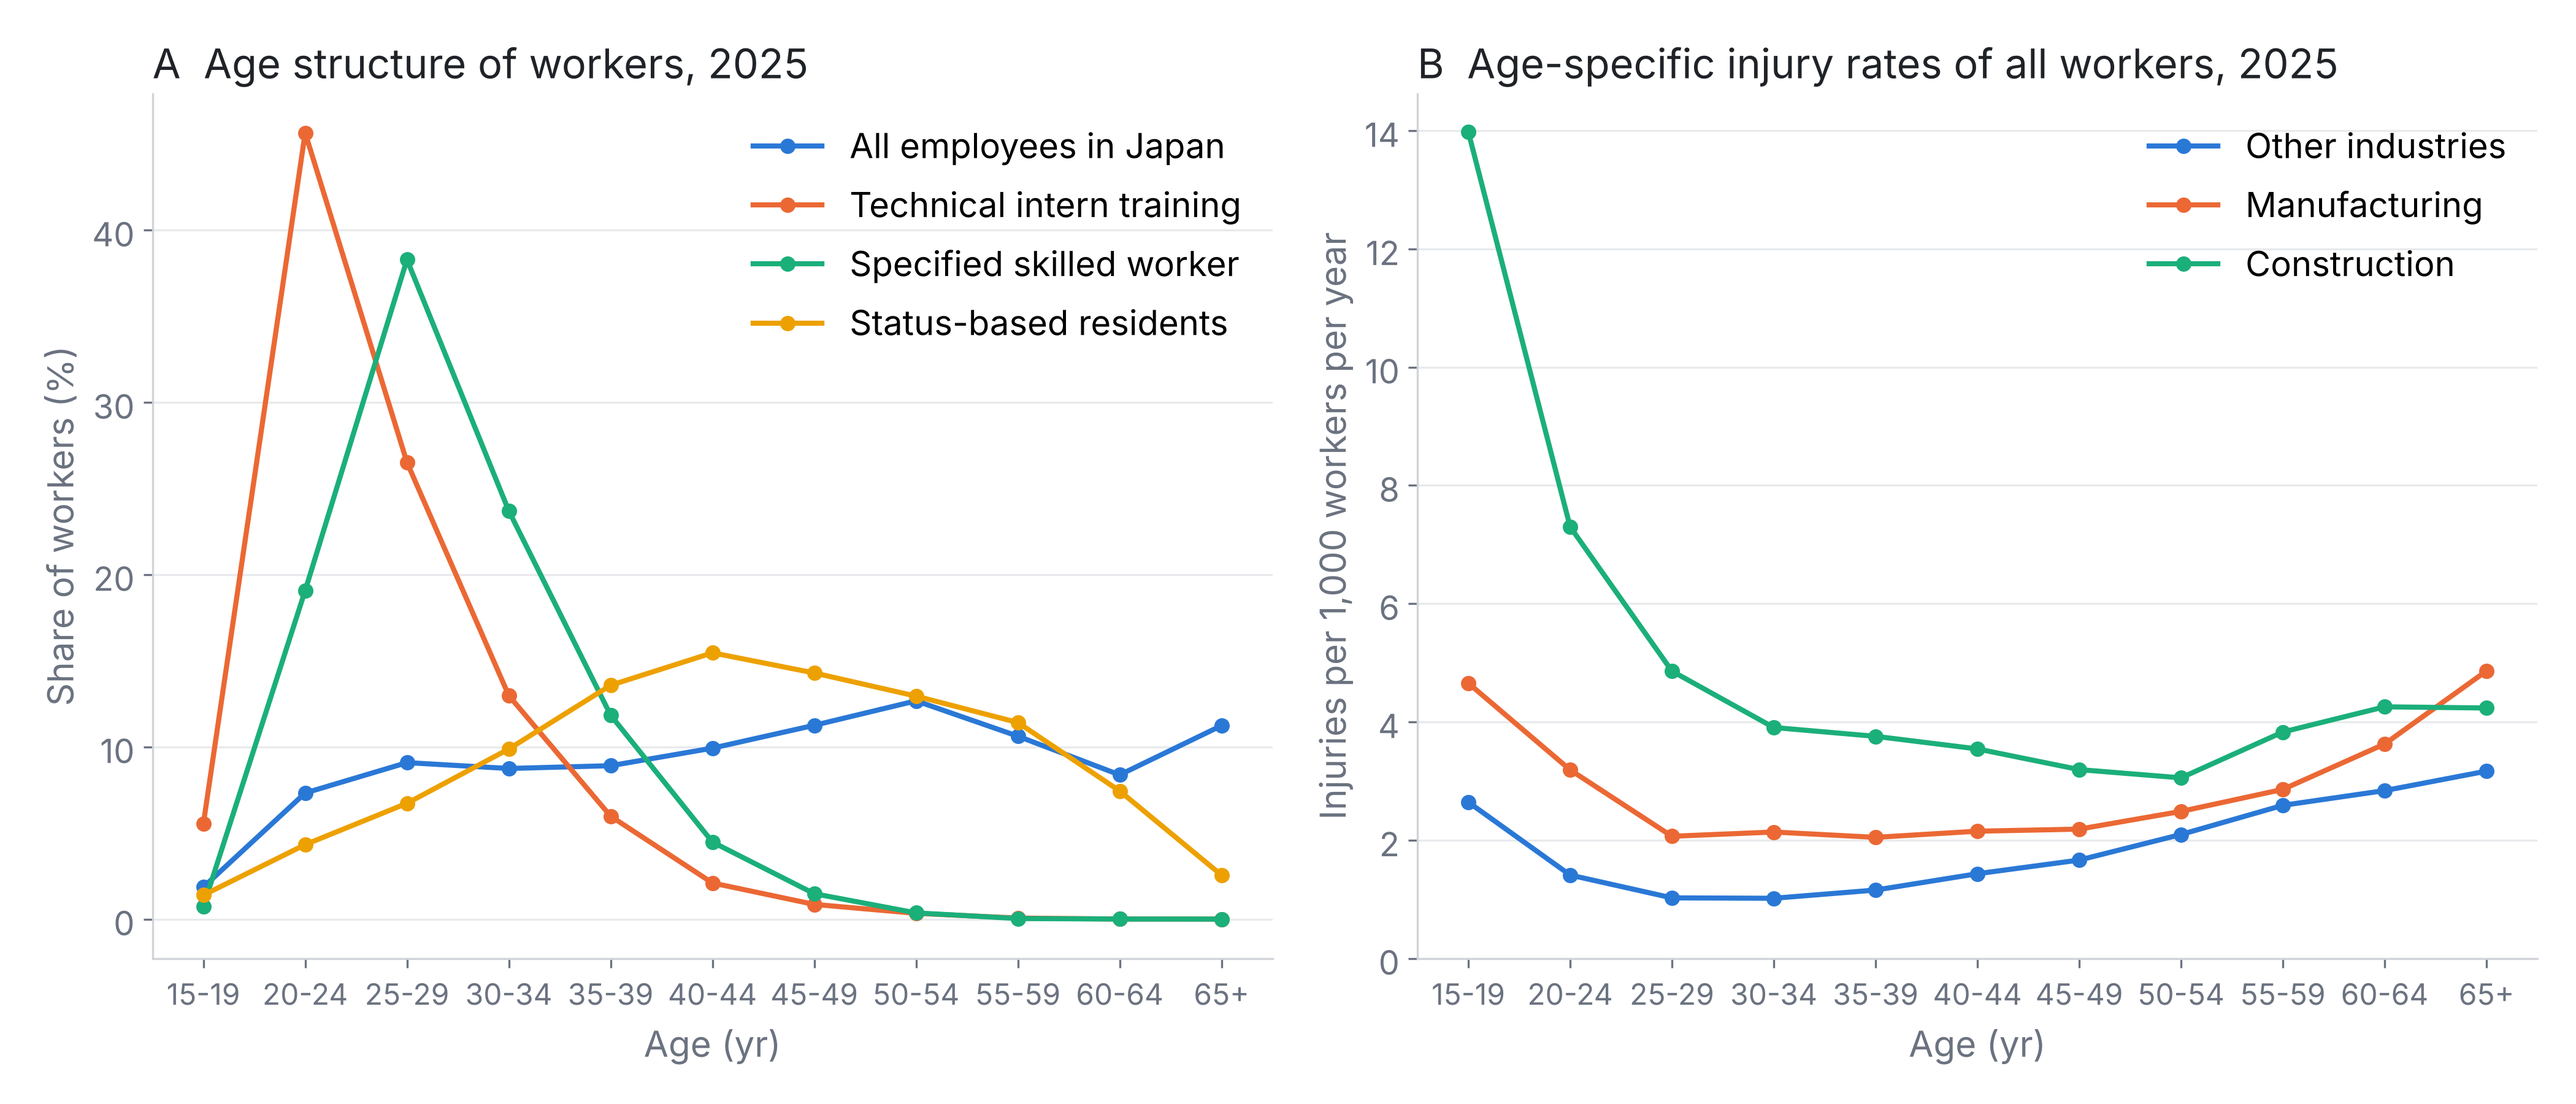
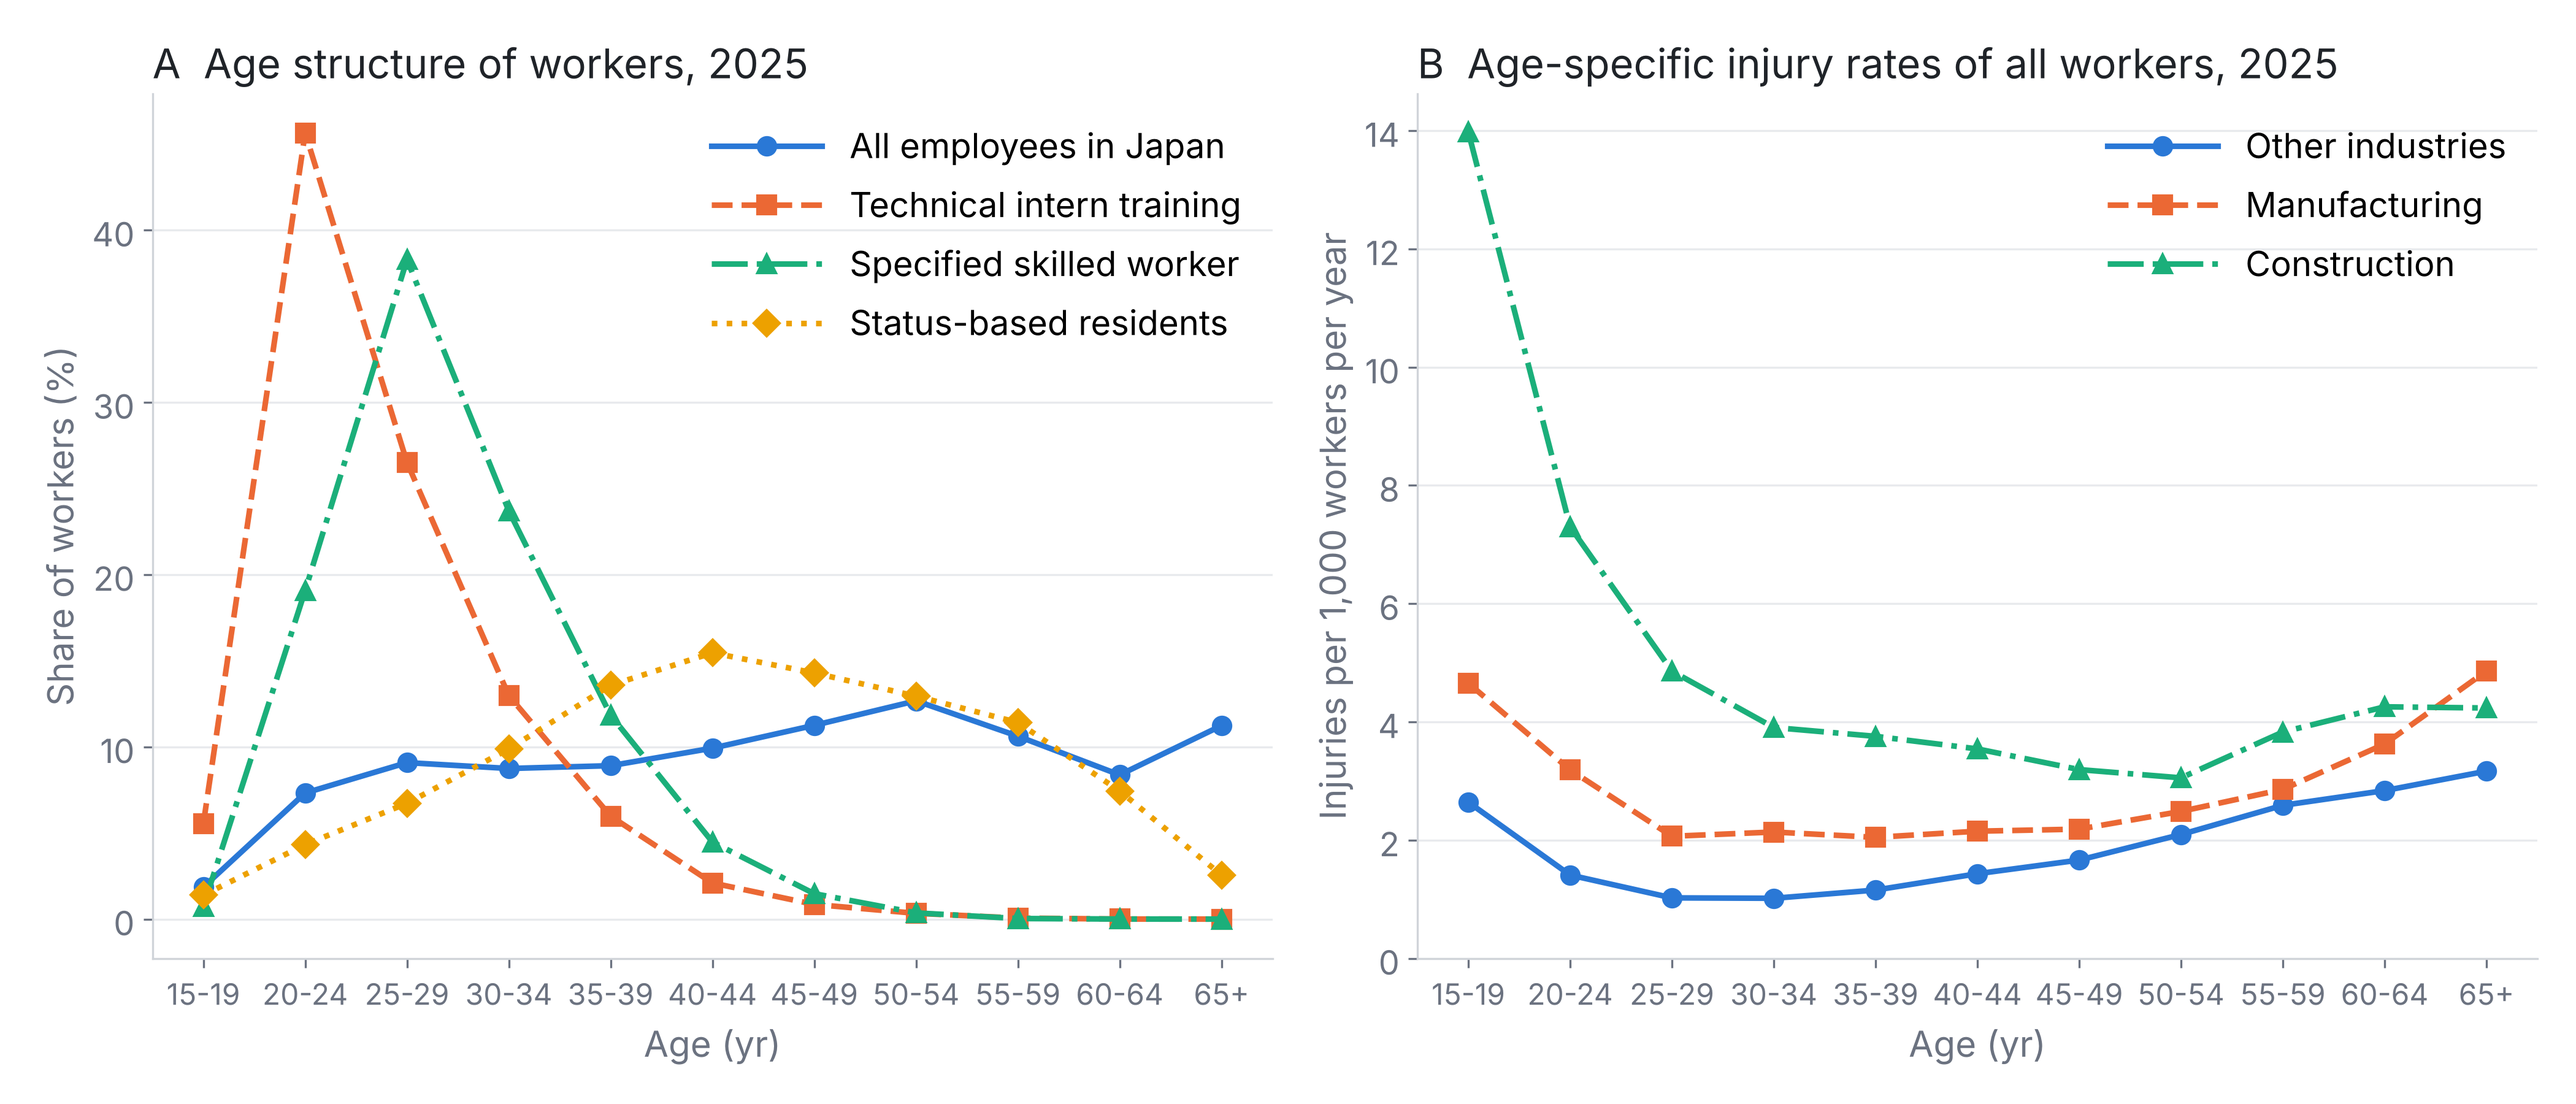
Figures readable in greyscale; additional combined sensitivity scenario; check of estimated age structures against the 2025 Survey on Employment of Foreign Workers
Claude-Session: https://claude.ai/code/session_015Upkoxw6Fp7Qp7yZwAYpZS

diff --git a/analysis.py b/analysis.py
@@ -301,6 +301,7 @@ SENS["all_combined"] = {
     "agency_in_manufacturing_and_denominator_plus10pct": [round(v, 3) for v in sir_ci(_o, A.e_age_disp.sum() * 1.1)],
     "denominator_plus10pct_and_age_factor_0.95": [round(v, 3) for v in sir_ci(_o, A.e_ind.sum() * 0.95 * 1.1)],
     "agency_in_manufacturing_denominator_plus10pct_and_age_factor_0.95": [round(v, 3) for v in sir_ci(_o, A.e_ind_disp.sum() * 0.95 * 1.1)],
+    "agency_in_manufacturing_denominator_plus10pct_and_no_age_adjustment": [round(v, 3) for v in sir_ci(_o, A.e_ind_disp.sum() * 1.1)],
 }
 # (f) observed and expected numbers, pooled (for Supplementary Table S3)
 _t = pd.read_csv(OUT / "table_status_year.csv").groupby("status")[["obs", "e_ind", "e_age"]].sum()
@@ -345,16 +346,17 @@ x = np.arange(11)
 fig, ax = plt.subplots(1, 2, figsize=(14, 6), facecolor=SUR)
 a = ax[0]; style(a)
 e25 = emp[(emp.year == 2025) & (emp.sex == "T")].groupby("age").employees.sum().reindex(AGE).to_numpy(float)
-for nm, p, c in [("All employees in Japan", e25 / e25.sum(), BL), ("Technical intern training", structure(2025, "titp").sum(0), OR),
-                 ("Specified skilled worker", structure(2025, "ssw").sum(0), AQ), ("Status-based residents", structure(2025, "status_based").sum(0), YL)]:
-    a.plot(x, p * 100, color=c, lw=2, marker="o", ms=5, label=nm)
+# each series differs in colour, marker shape and line style, so that the figures remain readable in greyscale
+for nm, p, c, mk, ls in [("All employees in Japan", e25 / e25.sum(), BL, "o", "-"), ("Technical intern training", structure(2025, "titp").sum(0), OR, "s", "--"),
+                         ("Specified skilled worker", structure(2025, "ssw").sum(0), AQ, "^", "-."), ("Status-based residents", structure(2025, "status_based").sum(0), YL, "D", ":")]:
+    a.plot(x, p * 100, color=c, lw=2.2, marker=mk, ms=7, ls=ls, label=nm)
 a.set_xticks(x); a.set_xticklabels(AGE, fontsize=11.5); a.set_ylabel("Share of workers (%)", color=MUT); a.set_xlabel("Age (yr)", color=MUT)
-a.legend(frameon=False, fontsize=13.5); a.set_title("A  Age structure of workers, 2025", loc="left", fontsize=16, color=INK)
+a.legend(frameon=False, fontsize=13.5, handlelength=3.2); a.set_title("A  Age structure of workers, 2025", loc="left", fontsize=16, color=INK)
 a = ax[1]; style(a)
-for k, nm, c in [("oth", "Other industries", BL), ("mfg", "Manufacturing", OR), ("con", "Construction", AQ)]:
-    a.plot(x, rate[2025][k] * 1000, color=c, lw=2, marker="o", ms=5, label=nm)
+for k, nm, c, mk, ls in [("oth", "Other industries", BL, "o", "-"), ("mfg", "Manufacturing", OR, "s", "--"), ("con", "Construction", AQ, "^", "-.")]:
+    a.plot(x, rate[2025][k] * 1000, color=c, lw=2.2, marker=mk, ms=7, ls=ls, label=nm)
 a.set_xticks(x); a.set_xticklabels(AGE, fontsize=11.5); a.set_ylim(0, None); a.set_ylabel("Injuries per 1,000 workers per year", color=MUT); a.set_xlabel("Age (yr)", color=MUT)
-a.legend(frameon=False, fontsize=13.5, loc="upper right"); a.set_title("B  Age-specific injury rates of all workers, 2025", loc="left", fontsize=16, color=INK)
+a.legend(frameon=False, fontsize=13.5, loc="upper right", handlelength=3.2); a.set_title("B  Age-specific injury rates of all workers, 2025", loc="left", fontsize=16, color=INK)
 plt.tight_layout(); plt.savefig(OUT / "Figure1.png", dpi=300, facecolor=SUR); plt.close()
 
 fig, ax = plt.subplots(1, 2, figsize=(15, 8), facecolor=SUR, gridspec_kw={"width_ratios": [1.25, 1]})
@@ -370,20 +372,20 @@ for j, (nm, d) in zip(yy, rows):
     if j % 2 == 0:
         a.axhspan(j - 0.5, j + 0.5, color="#f5f6f8", zorder=0)
     a.scatter([s0], [j + OFF], s=70, facecolor=SUR, edgecolor=INK, linewidth=1.8, marker="D", zorder=3)
-    a.errorbar([s1[0]], [j], xerr=[[s1[0] - s1[1]], [s1[2] - s1[0]]], fmt="o", color=BL, ms=8, lw=2.2, capsize=4, capthick=2, zorder=4)
+    a.errorbar([s1[0]], [j], xerr=[[s1[0] - s1[1]], [s1[2] - s1[0]]], fmt="s", color=BL, mfc=SUR, mew=2, ms=8, lw=2.2, capsize=4, capthick=2, zorder=4)
     a.errorbar([s2[0]], [j - OFF], xerr=[[s2[0] - s2[1]], [s2[2] - s2[0]]], fmt="o", color=OR, ms=8, lw=2.2, capsize=4, capthick=2, zorder=5)
 a.scatter([], [], s=70, facecolor=SUR, edgecolor=INK, linewidth=1.8, marker="D", label="Crude rate ratio")
-a.errorbar([], [], xerr=[], fmt="o", color=BL, ms=8, lw=2.2, capsize=4, label="SIR adjusted for industry (95% CI)")
+a.errorbar([], [], xerr=[], fmt="s", color=BL, mfc=SUR, mew=2, ms=8, lw=2.2, capsize=4, label="SIR adjusted for industry (95% CI)")
 a.errorbar([], [], xerr=[], fmt="o", color=OR, ms=8, lw=2.2, capsize=4, label="SIR adjusted for industry and age (95% CI)")
 a.axvline(1, color=MUT, lw=1.2); a.set_yticks(yy); a.set_yticklabels([nm for nm, _ in rows], fontsize=13.5); a.set_xlim(0, 2.2); a.set_ylim(-0.6, len(rows) - 0.4)
 a.axhline(len(rows) - 2.5, color=MUT, lw=0.8, ls="--")
 a.grid(axis="y", visible=False); a.grid(axis="x", color="#e8eaed", lw=0.8); a.legend(frameon=False, fontsize=13.5, loc="upper center", bbox_to_anchor=(0.35, -0.1), ncol=1, columnspacing=1.2, handletextpad=0.3)
 a.set_xlabel("Ratio to all workers (observed / expected)", color=MUT); a.set_title("A  By residence status, 2023-2025 pooled", loc="left", fontsize=16, color=INK)
 a = ax[1]; style(a)
-series = [("ssw", AQ, LABEL["ssw"], 0.0), ("status_based", YL, LABEL["status_based"], 0.0), ("titp", OR, LABEL["titp"], 0.07), (None, BL, "All foreign workers", -0.07)]
-for s, c, nm, dy in series:
+series = [("ssw", AQ, LABEL["ssw"], 0.0, "^", "-."), ("status_based", YL, LABEL["status_based"], 0.0, "D", ":"), ("titp", OR, LABEL["titp"], 0.07, "s", "--"), (None, BL, "All foreign workers", -0.07, "o", "-")]
+for s, c, nm, dy, mk, ls in series:
     v = [(R["status"][s] if s else R["all"])["by_year"][y]["sir_age"] for y in YEARS]
-    a.errorbar(YEARS, [t[0] for t in v], yerr=[[t[0] - t[1] for t in v], [t[2] - t[0] for t in v]], color=c, lw=2.2, marker="o", ms=7, capsize=4, capthick=1.8)
+    a.errorbar(YEARS, [t[0] for t in v], yerr=[[t[0] - t[1] for t in v], [t[2] - t[0] for t in v]], color=c, lw=2.2, marker=mk, ms=8, ls=ls, capsize=4, capthick=1.8)
     a.plot([2025.06, 2025.2], [v[-1][0], v[-1][0] + dy], color=c, lw=1.2)
     a.text(2025.23, v[-1][0] + dy, nm, va="center", fontsize=14, color=INK)
 a.axhline(1, color=MUT, lw=1.2); a.set_xticks(YEARS); a.set_xlim(2022.7, 2028.0); a.set_ylim(0, 2.4)

diff --git a/survey_check.py b/survey_check.py
@@ -1,0 +1,28 @@
+"""Compare the age structures estimated from residents with the 2025 Survey on Employment of Foreign Workers (MHLW;
+establishment survey, Table 1, as of 30 Sep 2025; 10-year classes, %, age unknown excluded) and recompute the 2025 SIRs
+with the survey structure (10-year totals from the survey, split within each class as in the main analysis)."""
+import runpy, numpy as np, json
+ns = runpy.run_path("analysis.py", run_name="x")
+structure, expected_status, sir_ci = ns["structure"], ns["expected_status"], ns["sir_ci"]
+SV = {"titp": [4.1, 70.9, 20.1, 3.0, 0.2, 0.0], "ssw": [0.3, 60.1, 34.3, 4.5, 0.5, 0.0],
+      "engineer_humanities": [0.0, 35.7, 53.9, 8.8, 0.9, 0.4], "status_based": [1.2, 10.5, 22.6, 30.7, 22.5, 11.9]}
+GR = [[0], [1, 2], [3, 4], [5, 6], [7, 8], [9, 10]]
+out = {}
+orig = structure
+for s, sv in SV.items():
+    sv = np.array(sv) / sum(sv)
+    p = orig(2025, s); pa = p.sum(0)
+    est10 = [pa[g].sum() * 100 for g in GR]
+    q = p.copy()
+    for g, t in zip(GR, sv):
+        tot = p[:, g].sum()
+        q[:, g] = p[:, g] / tot * t if tot > 0 else 0
+    q = q / q.sum()
+    def alt(y, status, weight=True, _s=s, _q=q):
+        return _q if (status == _s and y == 2025) else orig(y, status, weight)
+    expected_status.__globals__["structure"] = alt
+    r_alt = expected_status(2025, s)
+    expected_status.__globals__["structure"] = orig
+    r_main = expected_status(2025, s)
+    out[s] = dict(est10=[round(v, 1) for v in est10], survey10=[round(v * 100, 1) for v in sv], main=r_main, alt=r_alt)
+    print(s, out[s]["est10"], out[s]["survey10"]); print("  main", r_main); print("  alt ", r_alt)

diff --git a/README.md b/README.md
@@ -50,3 +50,9 @@ Mestate LLC, Kyoto, Japan (office@mestate.jp)
 ## Supplementary tables
 
 `supplement/Supplementary_Tables.pdf` (source: `supplement/Supplementary_Tables.md`) contains Tables S1–S5 cited in the article: further sensitivity analyses (S1), results for each year (S2), observed and expected numbers (S3), industry-specific SIRs (S4) and the age distributions used for standardization (S5; all years in `output/table_age_structure.csv`).
+
+## Additions (12 November 2026)
+
+- Figures: series are distinguished by marker shape and line style as well as colour.
+- `results.json` → `sensitivity_revision1.all_combined`: one more combined scenario (agency workers in manufacturing, 10% more workers, no age adjustment).
+- `survey_check.py`: compares the age structures estimated from residents with the 2025 Survey on Employment of Foreign Workers (MHLW, establishment survey, Table 1; values transcribed in the script) and recomputes the 2025 SIRs with the survey structure. Run `python survey_check.py` from the repository root.
